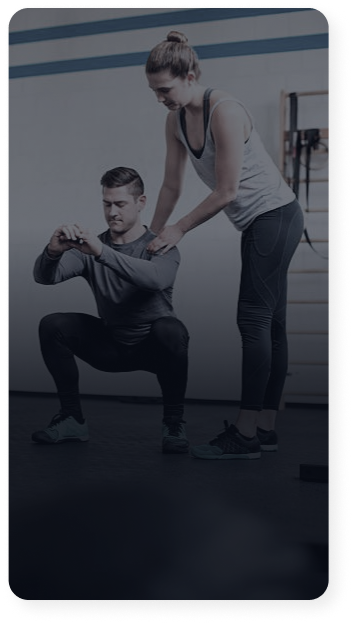
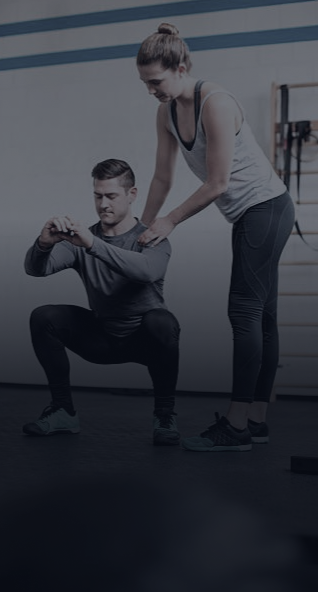
avance en el maquetado

diff --git a/app/curso-formacion/[nombre]/_components/cursoFormacionOtrosCursos.jsx b/app/curso-formacion/[nombre]/_components/cursoFormacionOtrosCursos.jsx
@@ -9,7 +9,7 @@ const cursos = [
   {
     titulo: "Preparador Fisico",
     descripcion: "Contiene 2 módulos, 6 unidades",
-    imagen: "/cursosFormacion/cursoimg1.jpg",
+    imagen: "/cursosFormacion/cursos/PersonalTrainer.png",
   },
   {
     titulo: "Personal Trainer",
@@ -19,17 +19,17 @@ const cursos = [
   {
     titulo: "Instructor de Musculación",
     descripcion: "Contiene 2 módulos, 6 unidades",
-    imagen: "https://source.unsplash.com/random/150x150",
+    imagen: "/cursosFormacion/cursos/InstructorDeMusculacion.png",
   },
   {
     titulo: "Gestion de Gimnasio",
     descripcion: "Contiene 2 módulos, 6 unidades",
-    imagen: "https://source.unsplash.com/random/150x150",
+    imagen: "/cursosFormacion/cursos/GestionGimnasios.png",
   },
   {
     titulo: "Nutrición Deportiva",
     descripcion: "Contiene 2 módulos, 6 unidades",
-    imagen: "https://source.unsplash.com/random/150x150",
+    imagen: "/cursosFormacion/cursos/NutricionDeportiva.png",
   },
 ];
 const OPTIONS = { align: "center" };
@@ -56,7 +56,7 @@ const CursoFormacionOtrosCursos = ({cursoActual}) => {
 
 const CursoCard = ({curso}) => (
   
-  <article className="rounded-2xl flex flex-col items-center overflow-hidden relative text-white p-8 pt-[16rem] border-2 border-red-700 gap-6 mx-2">
+  <article className="rounded-2xl flex flex-col items-center overflow-hidden relative text-white p-8 pt-[16rem] border-2 gap-6 mx-2">
     <Image
       src={curso.imagen?curso.imagen:"/cursosFormacion/cursos/PersonalTrainer.png"}
       alt=""
